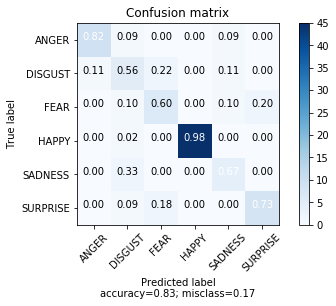
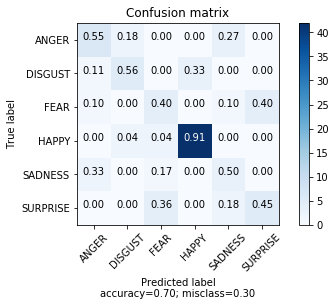
upated figures with new-normalization, wrote on rf more

diff --git a/report/sections/results.tex b/report/sections/results.tex
@@ -6,9 +6,9 @@ Each subsection here is dedicated to a method and is accompanied with two confus
 
 \twoupfigure{pca-knn}{tsne-knn}{Confusion matrices for \knn.}{PCA}{\tsne}{knn-conf}
 
-With \knn methods we can attain an average accuracy of $47.3\%$ with a standard deviation of $0.045$, this is less than mediocre. This difference in accuracy compared to other methods can be thought of as a problem with clustering and the nature of the landmark points. Any set of emotions where, for example an eyebrow point is more or less the same point (e.g. surprised), will be classified by kNN as the same emotion, no other points will be taken into account. Among our labels are two super-categories of emotions, positive (happy, surprised) and negative (fear, angry, disgust, sad). The reader is invited to make those emotions with his or her face and take note the placement of their eyebrows. They may notice they are in the same place for each emotion, other features may be in the same place too.
+With \knn methods we can attain an average accuracy of $46.5\%$ with a standard deviation of $0.045$, this is less than mediocre. This difference in accuracy compared to other methods can be thought of as a problem with clustering and the nature of the landmark points. Any set of emotions where, for example an eyebrow point is more or less the same point (e.g. surprised), will be classified by kNN as the same emotion, no other points will be taken into account. Among our labels are two super-categories of emotions, positive (happy, surprised) and negative (fear, angry, disgust, sad). The reader is invited to make those emotions with his or her face and take note the placement of their eyebrows. They may notice they are in the same place for each emotion, other features may be in the same place too.
 
-We ran another experiment to demonstrate that \knn can detect these distinctions. Simply by running the dataset through the \knn classifier and counting how many positive and negative emotions it accurately detects. The results are telling, we can classify positive emotions with 67\% accuracy and negative emotions with 91\% accuracy. We can inspect this further by referring to the relevant confusion matrix (figure \ref{fig:pca-knn}), \knn has quite admonishable accuracy when trying to classify the positive emotion surprise.
+We ran another experiment to demonstrate that \knn can detect these distinctions. Simply by running the dataset through the \knn classifier and counting how many positive and negative emotions it accurately detects. The results are telling, we can classify positive emotions with 67\% accuracy and negative emotions with 89\% accuracy. We can inspect this further by referring to the relevant confusion matrix (figure \ref{fig:pca-knn}), \knn has quite admonishable accuracy when trying to classify the positive emotion surprise.
 
 \subsection{MLP}
 
@@ -20,10 +20,10 @@ With MLP methods we can attain an accuracy of $73.3\%$ with a standard deviation
 
 \twoupfigure{pca-rf}{tsne-rf}{Confusion matrices for RF.}{PCA}{\tsne}{rf-conf}
 
-With RF methods we can attain an accuracy of $62.9\%$ with a standard deviation of $0.040$. While consistent, it is still about 10\% less accurate than the competing supervised methods. Furthermore, unlike \knn methods, RF's inherit structure determines features to be correlated, it is not just a series of points which some method is blindly clustering, hence the 15\% accuracy boost over \knn.
+With RF methods we can attain an accuracy of $62.9\%$ with a standard deviation of $0.043$. While consistent, it is still about 10\% less accurate than the competing supervised methods. Furthermore, unlike \knn methods, RF's inherit structure determines features to be correlated, it is not just a series of points which some method is blindly clustering, hence the 15\% accuracy boost over \knn. An interesting difference to point out in the results is while \knn most misclassifies surprise, RF misclassifies anger as disgust (figure \ref{fig:pca-rf}).
 
 \subsection{SVM}
 
 \twoupfigure{pca-svm}{tsne-svm}{Confusion matrices for SVM.}{PCA}{\tsne}{svm-conf}
 
-With SVM methods we get an accuracy of $74.00\%$ with a standard deviation of $0.039$. To a marginal detriment of consistency with MLP methods, this makes it the most accurate model.
+With SVM methods we get an accuracy of $74.00\%$ with a standard deviation of $0.045$. To a marginal detriment of consistency with MLP methods, this makes it the most accurate model.
